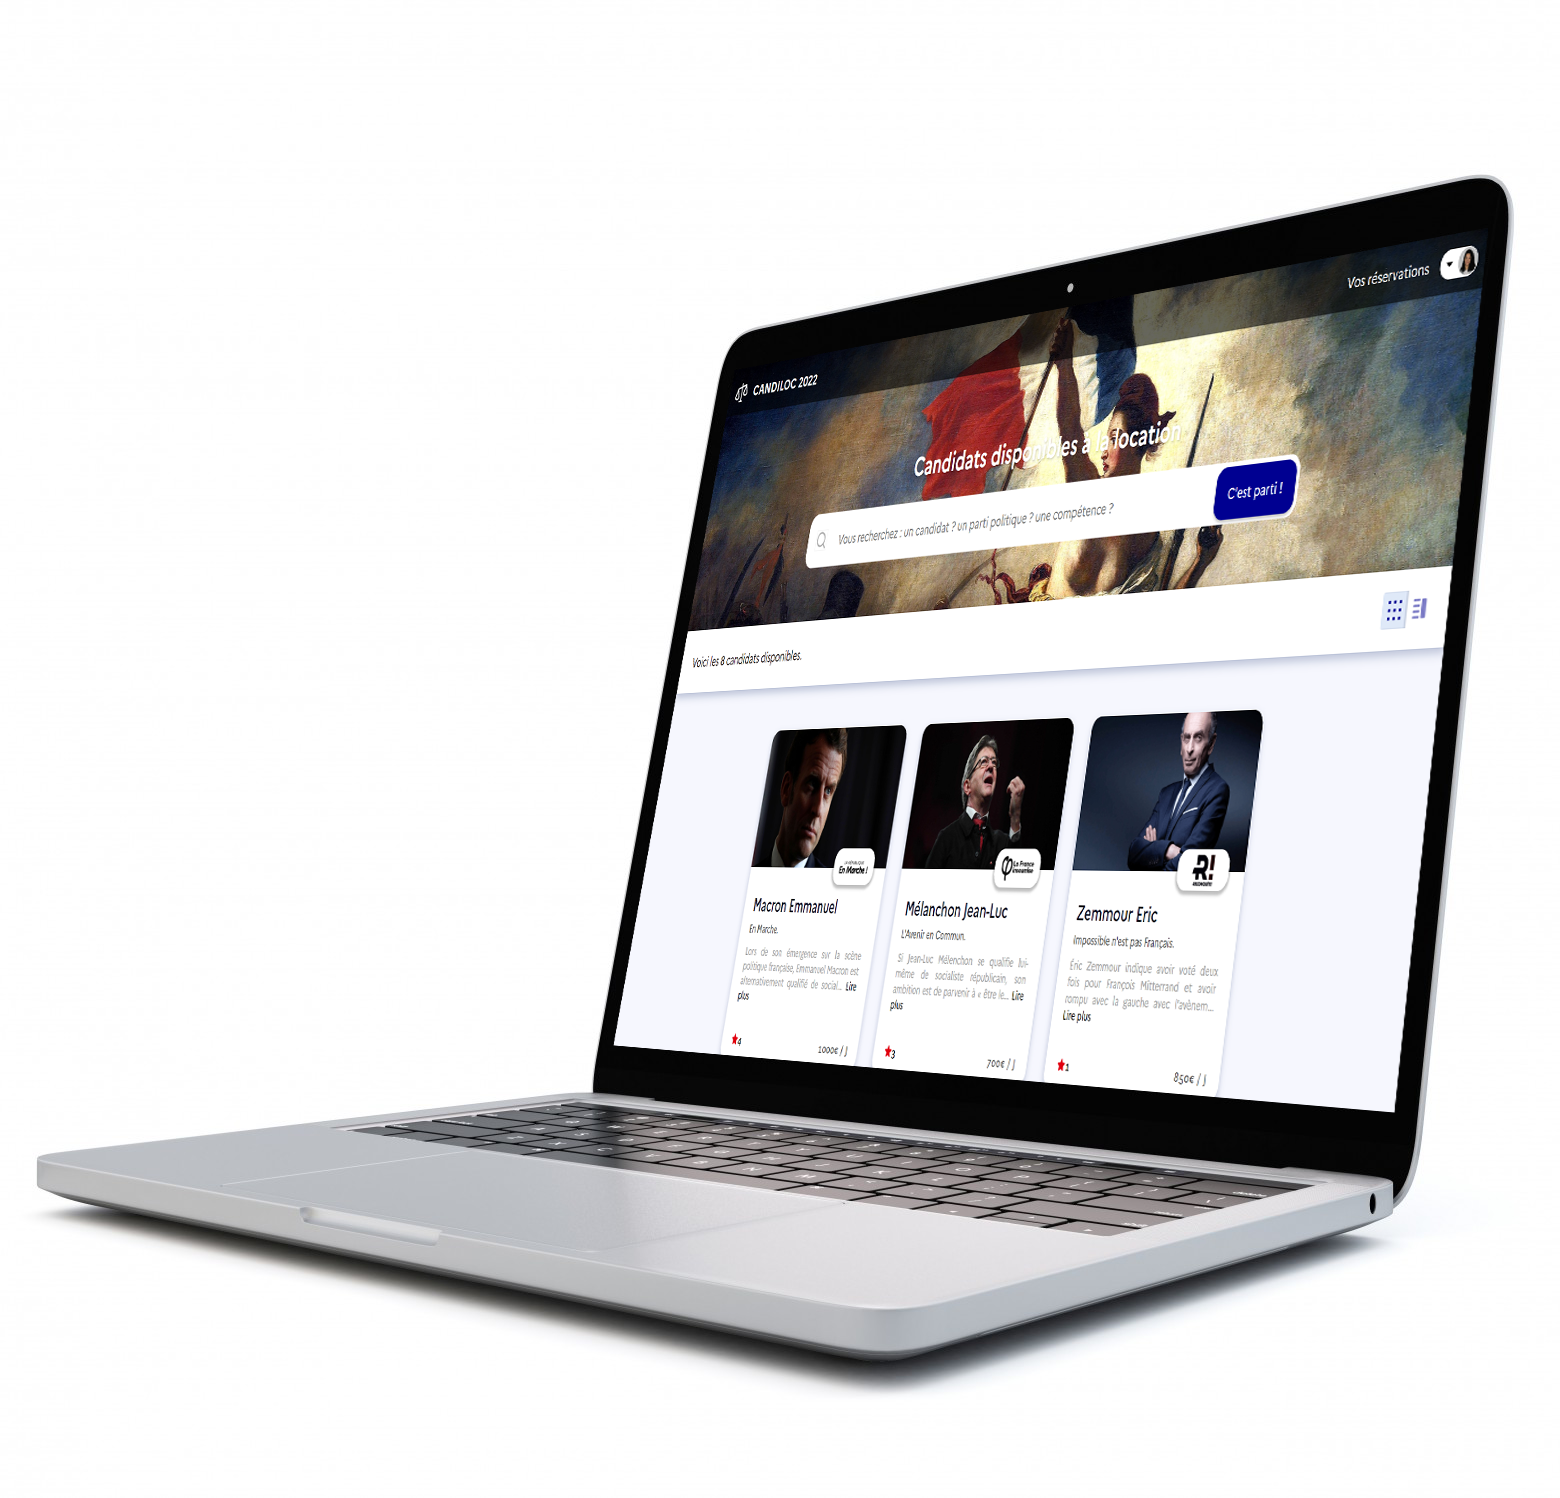
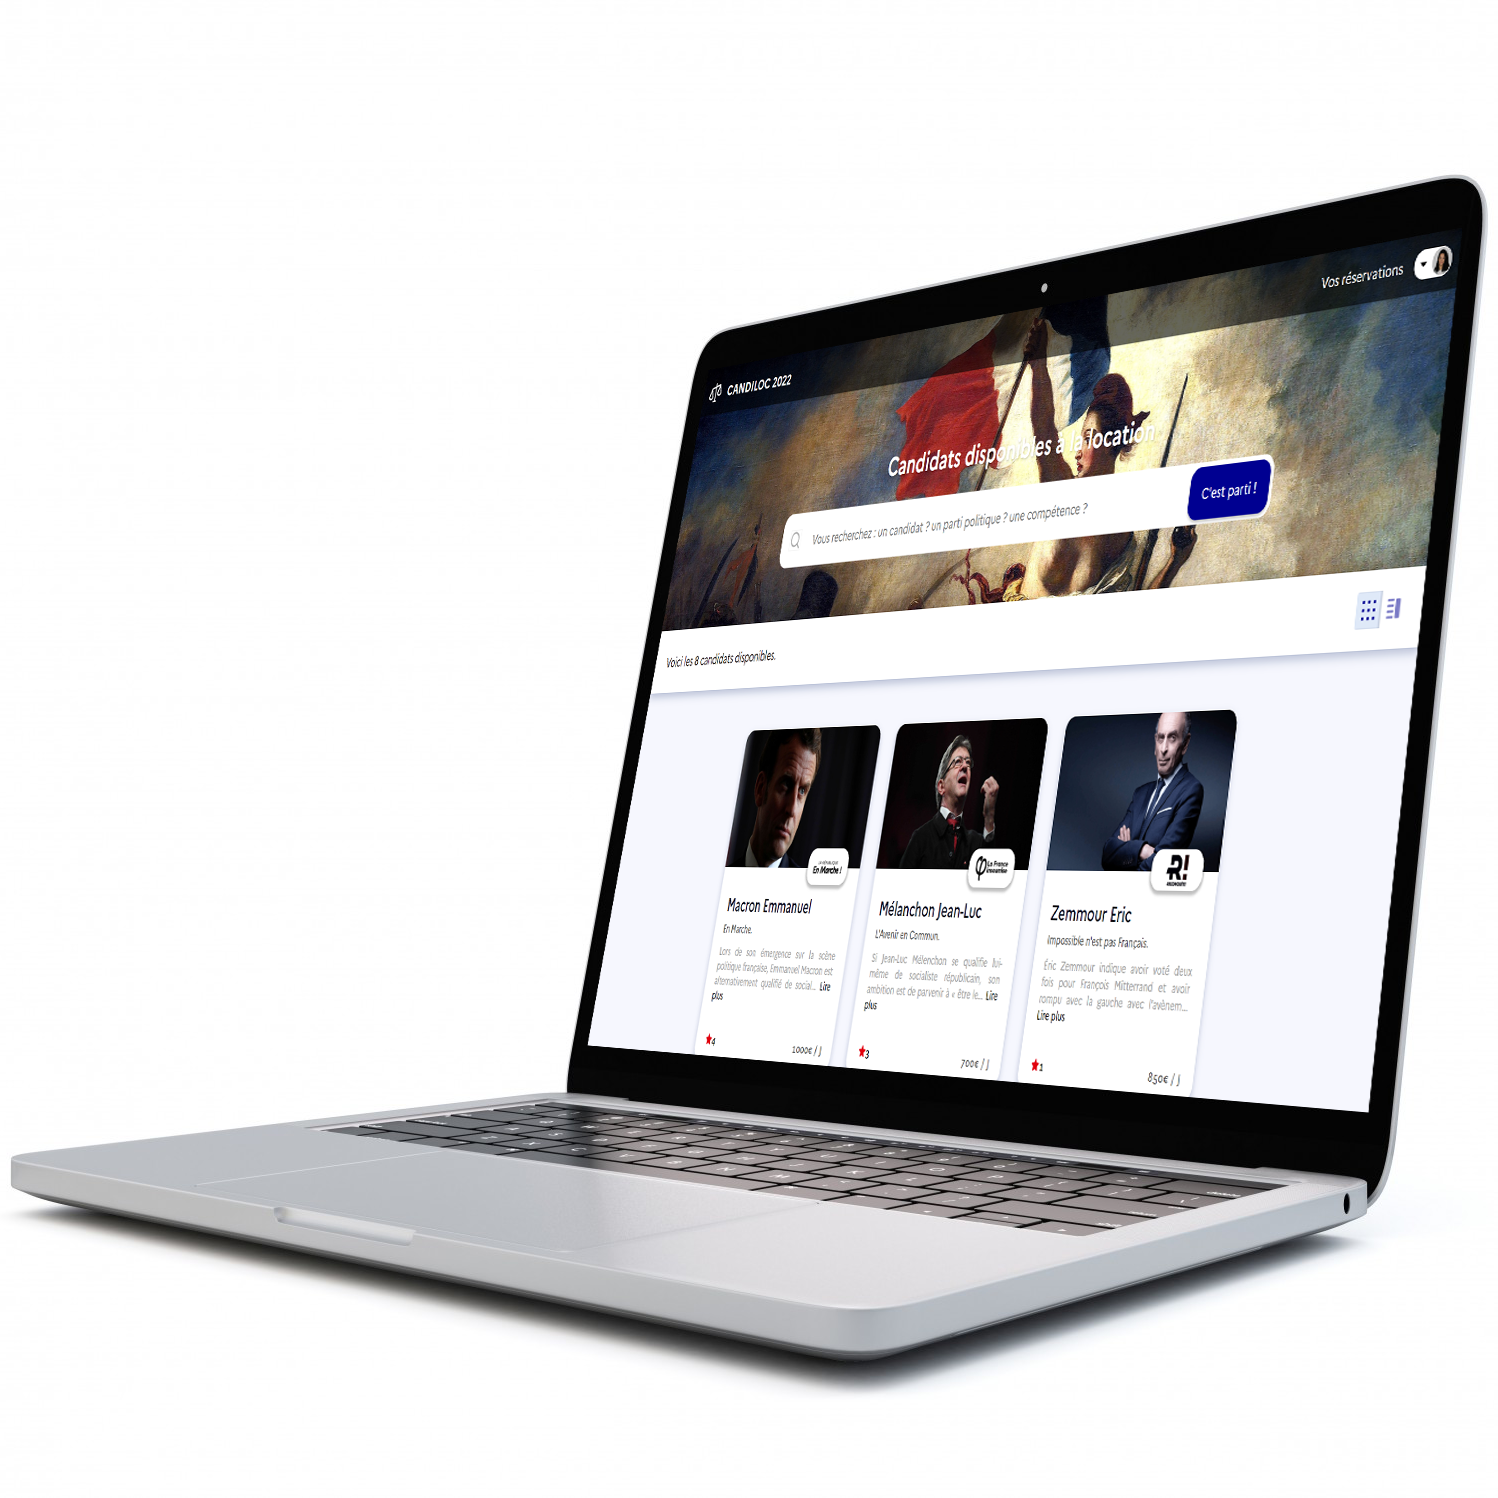
details

diff --git a/src/pages/Projets.jsx b/src/pages/Projets.jsx
@@ -16,19 +16,32 @@ const Projets = () => {
                   <h3>CANDILOC</h3>
                   <h4>Louez votre candidat politique préféré.</h4>
                 </div>
-                <p>
-                  {/* <u>OBJECTIF</u> */}
-                  <img src="./assets/images/objectif.png" className="picto" />
-                  création d'un site de location type "airbnb" avec un tout
-                  autre thème.
-                  <br />
-                  {/* <u>TEMPS</u> */}
-                  <img src="./assets/images/temps.png" className="picto" />1 semaine
-                  <br />
+                <div className="card-details">
+                  <div>
+                    <img
+                      src="./assets/images/objectif.png"
+                      className="picto"
+                      alt="objectif"
+                    />
+                    <p>
+                      création d'un site de location type "airbnb" avec un tout
+                      autre thème.
+                    </p>
+                  </div>
+                  <div>
+                    <img
+                      src="./assets/images/temps.png"
+                      className="picto"
+                      alt="temps"
+                    />
+                    <p>1 semaine</p>
+                  </div>
+                </div>
+                <p className="card-description">
                   Application web réalisée en équipe lors de ma formation au
                   Wagon.
-                  <br />
                 </p>
+                <div className="card-logos"></div>
               </div>
             </div>
           </a>
@@ -36,24 +49,34 @@ const Projets = () => {
         <div className="pets">
           <a href="https://www.placeforpets.xyz/" target="_blank">
             <div className="card">
-              <img src="./assets/images/PLACE_FOR_PETS_v2.png" className="visuel" />
+              <img
+                src="./assets/images/PLACE_FOR_PETS_v2.png"
+                className="visuel"
+              />
               <div className="card-content">
                 <div className="card-title">
                   <h3>PLACE FOR PETS</h3>
                   <h4>Vous partez en vacances ? Eux aussi.</h4>
                 </div>
-                <p>
-                  <img src="./assets/images/objectif.png" className="picto" />
-                  Réalisation d'une application qui calcule en temps réel le
-                  nombre de place restante dans des pensions à une courte
-                  distance d'un trajet en fonction du type d'animal.
-                  <br />
-                  <img src="./assets/images/temps.png" className="picto" />3 semaines
-                  <br />
+                <div className="card-details">
+                  <div>
+                    <img src="./assets/images/objectif.png" className="picto" />
+                    <p>
+                      Réalisation d'une application qui calcule en temps réel le
+                      nombre de place restante dans des pensions à une courte
+                      distance d'un trajet en fonction du type d'animal.
+                    </p>
+                  </div>
+                  <div>
+                    <img src="./assets/images/temps.png" className="picto" />
+                    <p>3 semaines</p>
+                  </div>
+                </div>
+                <p className="card-description">
                   Application web format mobile (390x844) réalisée en équipe
                   lors de ma formation au Wagon.
-                  <br />
                 </p>
+                <div className="card-logos"></div>
               </div>
             </div>
           </a>
@@ -67,15 +90,18 @@ const Projets = () => {
                   <h3>PORTFOLIO</h3>
                   <h4>Création d'un portfolio 'from scratch'.</h4>
                 </div>
-                <p>
+                <div className="card-details">
                   <img src="./assets/images/objectif.png" className="picto" />
-                  Réalisation d'un site vitrine avec REACT.
-                  <br />
-                  <img src="./assets/images/temps.png" className="picto" />1 semaines
-                  <br />
+                  <p>Réalisation d'un site vitrine avec REACT.</p>
+                  <div>
+                    <img src="./assets/images/temps.png" className="picto" />
+                    <p>1 semaines</p>
+                  </div>
+                </div>
+                <p className="card-description">
                   Application web réalisée en solo après ma formation au Wagon.
-                  <br />
                 </p>
+                <div className="card-logos"></div>
               </div>
             </div>
           </a>

diff --git a/src/styles/_projets.scss b/src/styles/_projets.scss
@@ -19,7 +19,8 @@
   margin: 25px;
   display: flex;
   // box-shadow: 0 1px 2px rgba(0,0,0,0.2);
-  box-shadow: 0px 4px 40px rgba(0, 0, 0, 0.15);
+  // box-shadow: 0px 4px 40px rgba(0, 0, 0, 0.15);
+  box-shadow: 0 1px 2px rgb(0 0 0 / 20%);
 
   .visuel {
     width: 100%;
@@ -104,7 +105,7 @@
       position: relative;
       top: 30px;
       border: 1px solid $color-2;
-      box-shadow: 0px 4px 40px rgba(0, 0, 0, 0.15);
+      box-shadow: 0 1px 2px rgb(0 0 0 / 20%);
     }
 
     &:hover {
@@ -124,33 +125,57 @@
       padding-top: 35px;
       border-radius: 10px;
       color: white;
-      box-shadow: 0px 4px 40px rgba(0, 0, 0, 0.15);
+      box-shadow: 0 1px 2px rgb(0 0 0 / 20%);
+      padding: 35px 10px 10px 10px;
 
       .card-title {
         display: flex;
         flex-direction: column;
         justify-content: left;
-      }
 
-      h3, h4 {
-        justify-content: center;
+        h3, h4 {
+          justify-content: center;
+        }
+  
+        h4 {
+          display: flex;
+          font-size: 12px;
+        }
       }
-
-      h4 {
+      .card-details {
         display: flex;
-        font-size: 12px;
-      }
 
-      p {
-        font-size: 10px;
-        display: flex;
-        margin-right: 3px;
+        // img {
+        //   width: 40px;
+        // }
+        div {
+          display: flex;
+          
+          &:first-child {
+            width: 70%;
+          }
+        }
+        p {
+          font-size: 10px;
+          display: flex;
+          margin-right: 3px;
+        }
 
         .picto {
           width: 20px;
           height: 20px;
         }
       }
+      .card-description {
+        display: flex;
+        justify-content: center;
+        font-size: 10px;
+      }
+      .card-logo {
+        background-color: white;
+      }
+
+      
     }
   }
 }

diff --git a/src/styles/_about.scss b/src/styles/_about.scss
@@ -8,8 +8,9 @@
     object-fit: cover;
     max-height: 400px;
     margin: 0 25px;
-    box-shadow: inset 0 -3em 3em rgba(0, 0, 0, 0.1), 
-    0.3em 0.3em 1em rgba(0, 0, 0, 0.3);
+    // box-shadow: inset 0 -3em 3em rgba(0, 0, 0, 0.1), 
+    // 0.3em 0.3em 1em rgba(0, 0, 0, 0.3);
+    box-shadow: 0 1px 2px rgb(0 0 0 / 20%);
   }
 
   .about-content {

diff --git a/src/styles/_cv.scss b/src/styles/_cv.scss
@@ -22,6 +22,7 @@
       background-color: $color-1;
     }
 
+
     &:active {
       // background-color: $color-1;
       // box-shadow: 0 5px $color-1;
